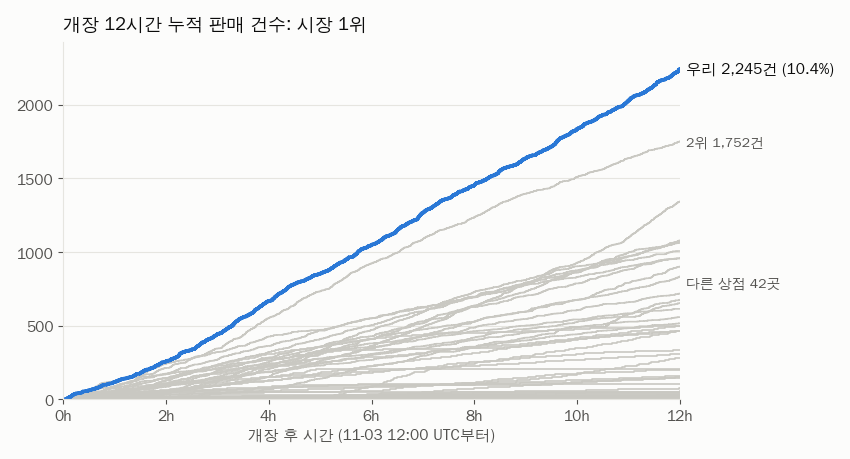
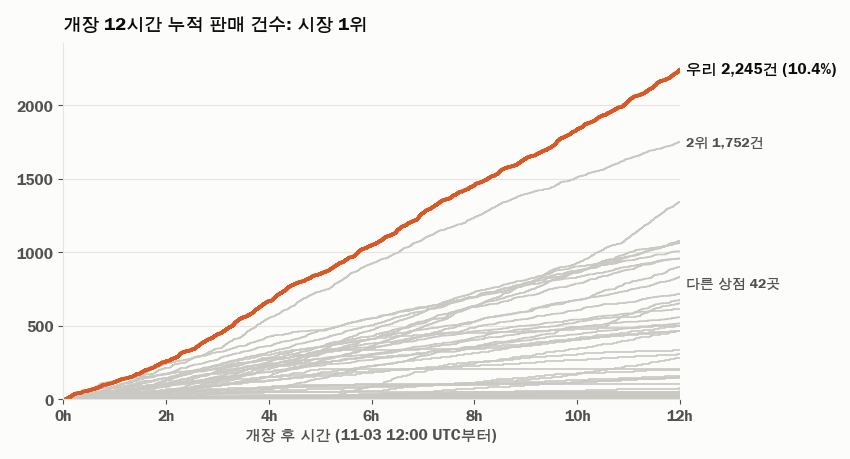
[week-08] REPORT: a chart for each section in varied forms (stacked bars, 100% bars, area, annotated line, stacked area, lollipop, event timeline) and an orange/aqua palette instead of blue; 3.5 text follows the board gap (114 M on 11-16 15:00 down to +11.6 M at the close); cash/stock table replaced

diff --git a/submissions/23530007/week-08/reports/plot_extra.py b/submissions/23530007/week-08/reports/plot_extra.py
@@ -1,0 +1,194 @@
+"""REPORT charts for sections 1, 2, 3.4, 3.5, 4, 6 and 7. Sources: data/market_archive.db (board snapshots and the
+public ledger), .market/catalog.json, and the incident table of the report.
+Run from the week-08 folder: python3 reports/plot_extra.py"""
+import json, sqlite3, statistics, collections, datetime as dt, os, sys
+sys.path.insert(0, os.path.dirname(os.path.abspath(__file__)))
+import chart_style as cs
+import matplotlib.dates as mdates
+
+UTC = dt.timezone.utc
+DB = "data/market_archive.db"
+OUT = "reports"
+ME = "yms979"
+END = dt.datetime(2026, 11, 17, 15, 0, tzinfo=UTC).timestamp()
+
+
+def board_rows():
+    c = sqlite3.connect(f"file:{DB}?mode=ro", uri=True)
+    for ts, d in c.execute("select ts,data from board where ts<=? order by ts", (END + 300,)):
+        d = json.loads(d)
+        if d.get("round") == 3:
+            yield ts, d
+
+
+def results():
+    c = sqlite3.connect(f"file:{DB}?mode=ro", uri=True)
+    d = json.loads(c.execute("select data from board order by ts desc limit 1").fetchone()[0])
+    P = sorted([p for p in d["players"] if p.get("student")], key=lambda p: -p["student_total"])[:5][::-1]
+    f, ax = cs.fig(h=3.0)
+    y = range(len(P))
+    shop = [p["student_shop"] for p in P]; buyer = [p["student_buyer"] for p in P]
+    ax.barh(y, shop, color=cs.US, height=0.6, edgecolor=cs.SURF, lw=2)
+    ax.barh(y, buyer, left=shop, color=cs.AQUA, height=0.6, edgecolor=cs.SURF, lw=2)
+    names = ["우리" if p["player"] == ME else f"{5 - i}위" for i, p in enumerate(P)]
+    ax.set_yticks(list(y)); ax.set_yticklabels(names)
+    for i, p in enumerate(P):
+        ax.text(p["student_total"] + 0.02, i, f"{p['student_total']:.3f}", va="center", color=cs.INK,
+                fontweight="bold" if p["player"] == ME else "normal")
+        ax.text(p["student_shop"] / 2, i, f"상점 {p['student_shop']:.2f}", va="center", ha="center", color="white", fontsize=8)
+        ax.text(p["student_shop"] + p["student_buyer"] / 2, i, f"구매자 {p['student_buyer']:.2f}", va="center", ha="center", color=cs.INK, fontsize=8)
+    ax.set_xlim(0, 2.05); ax.spines["left"].set_visible(False); ax.tick_params(axis="y", length=0)
+    ax.grid(axis="x", color=cs.GRID, lw=0.8); ax.set_axisbelow(True)
+    cs.title(ax, "반 종합 상위 5명: 상점 점수 + 구매자 점수")
+    f.tight_layout(); cs.save(f, f"{OUT}/results.png")
+
+
+def preopen():
+    cat = collections.defaultdict(list)
+    for it in json.load(open(".market/catalog.json")).values():
+        cat[it["category"]].append(it["list_price"])
+    med = {k: statistics.median(v) for k, v in cat.items()}
+    big = {k: v for k, v in med.items() if v > 300_000}
+    n_share = len(big) / len(med); p_share = sum(big.values()) / sum(med.values())
+    f, ax = cs.fig(h=2.2)
+    rows = [("정가 합계", p_share), ("카테고리 수", n_share)]
+    for i, (lab, s) in enumerate(rows):
+        ax.barh(i, s, color=cs.US, height=0.55, edgecolor=cs.SURF, lw=2)
+        ax.barh(i, 1 - s, left=s, color=cs.OTHER, height=0.55, edgecolor=cs.SURF, lw=2)
+        ax.text(max(s, 0.04) + 0.01 if s < 0.1 else s / 2, i, f"{s:.0%}", va="center",
+                ha="left" if s < 0.1 else "center", color=cs.INK if s < 0.1 else "white", fontweight="bold")
+        ax.text(s + (1 - s) / 2, i, f"{1 - s:.0%}", va="center", ha="center", color=cs.INK2)
+    ax.set_yticks([0, 1]); ax.set_yticklabels([r[0] for r in rows]); ax.tick_params(axis="y", length=0)
+    ax.set_xticks([]); ax.spines["left"].set_visible(False); ax.spines["bottom"].set_visible(False)
+    ax.set_xlim(0, 1)
+    ax.text(0, -0.75, f"■ 중앙가 30만 원 넘는 카테고리 {len(big)}개", color=cs.US, fontsize=9)
+    ax.text(0.5, -0.75, f"■ 나머지 {len(med) - len(big)}개", color=cs.INK2, fontsize=9)
+    cs.title(ax, "카테고리마다 중앙가 상품 1개씩 놓을 때: 비싼 6개가 돈의 60%")
+    f.tight_layout(); cs.save(f, f"{OUT}/preopen.png")
+    print("preopen", len(big), len(med), round(n_share, 3), round(p_share, 3))
+
+
+def book_gap(rows):
+    out = []
+    for ts, d in rows:
+        S = [s for s in d["shops"] if not s.get("house") and s.get("book")]
+        me = next((s for s in S if s["name"] == ME), None)
+        if not me: continue
+        other = max((s for s in S if s["name"] != ME), key=lambda s: s["book"])
+        out.append((dt.datetime.fromtimestamp(ts, UTC), (me["book"] - other["book"]) / 1e6, other["name"]))
+    return out
+
+
+def defence(gap):
+    g = [x for x in gap if x[0] <= dt.datetime(2026, 11, 16, 15, tzinfo=UTC)]
+    f, ax = cs.fig()
+    t = [x[0] for x in g]; v = [x[1] for x in g]
+    ax.fill_between(t, v, color=cs.US, alpha=0.18, lw=0)
+    ax.plot(t, v, color=cs.US, lw=2)
+    i_max = max(range(len(v)), key=lambda i: v[i])
+    ax.annotate(f"최대 +{v[i_max]:.0f}M", xy=(t[i_max], v[i_max]), xytext=(0, 8), textcoords="offset points",
+                ha="center", color=cs.INK)
+    ax.annotate(f"+{v[-1]:.0f}M", xy=(t[-1], v[-1]), xytext=(6, 0), textcoords="offset points", va="center", color=cs.INK,
+                fontweight="bold")
+    ax.set_ylim(0, max(v) * 1.15); ax.set_ylabel("장부 격차 (백만 원)")
+    ax.grid(axis="y", color=cs.GRID, lw=0.8); ax.set_axisbelow(True)
+    ax.xaxis.set_major_locator(mdates.DayLocator()); ax.xaxis.set_major_formatter(mdates.DateFormatter("%m-%d"))
+    cs.title(ax, "장부 2위와의 격차, 11-11 ~ 11-16")
+    f.tight_layout(); cs.save(f, f"{OUT}/defence.png")
+    print("defence", round(v[0]), round(v[i_max]), t[i_max], round(v[-1]))
+
+
+def endgame(gap):
+    a = dt.datetime(2026, 11, 16, 15, tzinfo=UTC)
+    g = [x for x in gap if x[0] >= a]
+    f, ax = cs.fig()
+    t = [x[0] for x in g]; v = [x[1] for x in g]
+    T = lambda h, m=0: dt.datetime(2026, 11, 17, h, m, tzinfo=UTC)
+    ax.axvspan(T(8, 59), T(10, 29), color=cs.YELLOW, alpha=0.18, lw=0)
+    ax.text(T(9, 44), max(v) * 0.82, "종반 매입\n중단", ha="center", va="bottom", color=cs.INK2, fontsize=8)
+    ax.plot(t, v, color=cs.US, lw=2, marker="o", ms=2.5)
+    for when, lab, ha in [(T(6, 40), "06:40~07:52 보증 끔,\nB·C 판매, 정리 가격 끔 ", "right"), (T(10, 28), " 10:28\n 매입 재개", "left")]:
+        ax.axvline(when, color=cs.INK2, lw=0.8, ls=(0, (3, 3)))
+        ax.text(when, max(v) * 1.2, lab, color=cs.INK, fontsize=8, va="top", ha=ha)
+    i_min = min(range(len(v)), key=lambda i: v[i] if t[i] < T(14) else 1e9)
+    ax.annotate(f"+{v[-1]:.1f}M (종료)", xy=(t[-1], v[-1]), xytext=(-4, -14), textcoords="offset points", ha="right",
+                color=cs.INK, fontweight="bold")
+    ax.set_ylim(0, max(v) * 1.25); ax.set_ylabel("장부 격차 (백만 원)")
+    ax.grid(axis="y", color=cs.GRID, lw=0.8); ax.set_axisbelow(True)
+    ax.xaxis.set_major_locator(mdates.HourLocator(byhour=range(0, 24, 3)))
+    ax.xaxis.set_major_formatter(mdates.DateFormatter("%H시"))
+    cs.title(ax, "마지막 24시간의 장부 격차 (11-16 15시 ~ 11-17 15시 UTC)")
+    f.tight_layout(); cs.save(f, f"{OUT}/endgame.png")
+    print("endgame", round(v[0], 1), round(min(v), 1), round(v[-1], 1))
+
+
+def cash_stock(rows):
+    t, cash, stock = [], [], []
+    for ts, d in rows:
+        me = next((s for s in d["shops"] if s["name"] == ME), None)
+        if not me: continue
+        t.append(dt.datetime.fromtimestamp(ts, UTC)); stock.append(me["stock_cost"] / 1e6); cash.append((me["book"] - me["stock_cost"]) / 1e6)
+    f, ax = cs.fig()
+    ax.stackplot(t, stock, cash, colors=[cs.US, cs.AQUA], alpha=0.85, lw=0)
+    ax.text(t[len(t) // 2], stock[len(t) // 2] / 2, "재고 (원가)", color="white", ha="center", fontweight="bold")
+    ax.annotate("현금", xy=(t[2], stock[2] + cash[2] * 0.6), xytext=(18, -6), textcoords="offset points", color=cs.INK,
+                fontweight="bold")
+    ax.set_ylabel("백만 원"); ax.set_ylim(0, max(a + b for a, b in zip(stock, cash)) * 1.1)
+    ax.grid(axis="y", color=cs.GRID, lw=0.8); ax.set_axisbelow(True)
+    ax.xaxis.set_major_locator(mdates.DayLocator()); ax.xaxis.set_major_formatter(mdates.DateFormatter("%m-%d"))
+    cs.title(ax, "장부의 구성: 현금과 재고, 11-11 ~ 11-17")
+    f.tight_layout(); cs.save(f, f"{OUT}/cash_stock.png")
+
+
+def ledger_kinds():
+    c = sqlite3.connect(f"file:{DB}?mode=ro", uri=True)
+    names = {"result": "주문 결과", "order": "주문", "settle": "결제", "supply": "공급(매입)", "broken": "고장",
+             "expire": "폐기", "storage": "보관료", "join": "가입"}
+    rows = sorted(((names[k], n) for k, n in c.execute("select kind,count(*) from ledger where round=3 group by kind")
+                   if k in names), key=lambda x: x[1])
+    f, ax = cs.fig(h=3.0)
+    y = range(len(rows))
+    ax.hlines(y, 0, [n for _, n in rows], color=cs.OTHER, lw=2)
+    ax.plot([n for _, n in rows], list(y), "o", color=cs.US, ms=7)
+    for i, (_, n) in enumerate(rows):
+        ax.text(n * 1.25, i, f"{n:,}", va="center", color=cs.INK, fontsize=8.5)
+    ax.set_xscale("log"); ax.set_xlim(1e3, 2e7)
+    ax.set_yticks(list(y)); ax.set_yticklabels([r[0] for r in rows]); ax.tick_params(axis="y", length=0)
+    ax.spines["left"].set_visible(False); ax.grid(axis="x", color=cs.GRID, lw=0.8); ax.set_axisbelow(True)
+    ax.set_xlabel("건수 (로그 눈금)")
+    cs.title(ax, f"보관한 Round 3 공개 원장: {sum(n for _, n in rows):,}건")
+    f.tight_layout(); cs.save(f, f"{OUT}/ledger.png")
+
+
+def incidents():
+    E = [("11-05", "거래", "고장 환불 12.7M (2.8시간)"), ("11-06", "거래", "최고 판매 품목 2시간 품절"),
+         ("11-08", "판단", "전략가가 진단 없이 판단"), ("11-11", "인프라", "우리 상점 1시간 연결 끊김"),
+         ("11-13", "거래", "우대 가격이 원가 아래로"), ("11-15", "거래", "베개를 정가 넘게 판매"),
+         ("11-16", "판단", "별점 우대가 다른 학생 순위를 올림"), ("11-16", "판단", "A/B가 시간 비용 0을 채택"),
+         ("11-17", "거래", "재고 과다 매입 (215M 미판매)")]
+    color = {"거래": cs.US, "판단": cs.AQUA, "인프라": cs.YELLOW}
+    f, ax = cs.fig(h=3.4)
+    n = len(E)
+    for i, (d, r, lab) in enumerate(E):
+        x = int(d[3:]); y = n - 1 - i
+        ax.hlines(y, 4.6, x, color=cs.GRID, lw=1)
+        ax.plot([x], [y], "o", color=color[r], ms=7, zorder=3)
+        ax.text(x + 0.25, y, f"{lab}", va="center", fontsize=8.5, color=cs.INK)
+    ax.set_yticks([]); ax.set_xticks(range(5, 18, 2)); ax.set_xticklabels([f"11-{d:02d}" for d in range(5, 18, 2)])
+    ax.set_xlim(4.6, 24.5); ax.set_ylim(-0.7, n - 0.3)
+    for sp in ("left",): ax.spines[sp].set_visible(False)
+    ax.spines["bottom"].set_bounds(4.6, 17.5)
+    for k, (r, col) in enumerate(color.items()):
+        yy = n - 1 - k * 0.8
+        ax.plot([20.2], [yy], "o", color=col, ms=7)
+        ax.text(20.6, yy, r, va="center", color=cs.INK, fontsize=9)
+    cs.title(ax, "사건 9건: 날짜와 일어난 층")
+    f.tight_layout(); cs.save(f, f"{OUT}/incidents.png")
+
+
+if __name__ == "__main__":
+    results(); preopen()
+    rows = list(board_rows())
+    gap = book_gap(rows)
+    defence(gap); endgame(gap); cash_stock(rows)
+    ledger_kinds(); incidents()

diff --git a/submissions/23530007/week-08/reports/chart_style.py b/submissions/23530007/week-08/reports/chart_style.py
@@ -1,0 +1,41 @@
+"""Shared look for the REPORT charts: one accent for our shop (orange), one helper hue (aqua), gray for everyone else.
+Orange/aqua/yellow pass the dataviz palette checks (CVD and normal-vision separation); aqua and yellow sit under
+3:1 against the surface, so every mark in those colors carries a text label."""
+import matplotlib
+matplotlib.use("Agg")
+import matplotlib.pyplot as plt
+from matplotlib import font_manager as fm
+
+US = "#d95926"          # our shop
+US_RAMP = ["#f6c7ae", "#ec8a5d", "#a8401a"]   # light -> dark orange, for ordered bands (cheap -> dear)
+AQUA = "#1baf7a"        # second series
+YELLOW = "#eda100"      # regime / period highlight (always labelled)
+OTHER = "#cfcec8"       # other shops
+INK, INK2, GRID, SURF = "#0b0b0b", "#52514e", "#e6e5e0", "#fcfcfb"
+W, H = 6.4, 3.6         # inches; saved at 130 dpi -> about 830 px wide
+DPI = 130
+
+
+def setup():
+    fp = [f for f in fm.findSystemFonts() if "UnDotum" in f]
+    if fp:
+        fm.fontManager.addfont(fp[0])
+        plt.rcParams["font.family"] = fm.FontProperties(fname=fp[0]).get_name()
+    plt.rcParams.update({"axes.edgecolor": GRID, "xtick.color": INK2, "ytick.color": INK2, "font.size": 9,
+                         "axes.labelcolor": INK2, "axes.spines.top": False, "axes.spines.right": False})
+
+
+def fig(w=W, h=H, **kw):
+    setup()
+    f, ax = plt.subplots(figsize=(w, h), facecolor=SURF, **kw)
+    for a in (ax if hasattr(ax, "__iter__") else [ax]):
+        a.set_facecolor(SURF)
+    return f, ax
+
+
+def title(ax, text):
+    ax.set_title(text, loc="left", color=INK, fontsize=11, pad=8)
+
+
+def save(f, out):
+    f.savefig(out, dpi=DPI, facecolor=SURF)

diff --git a/submissions/23530007/week-08/reports/plot_switch.py b/submissions/23530007/week-08/reports/plot_switch.py
@@ -29,7 +29,7 @@ for title, a, b in WIN:
 fp = [f for f in fm.findSystemFonts() if "UnDotum" in f]
 if fp: fm.fontManager.addfont(fp[0]); plt.rcParams["font.family"] = fm.FontProperties(fname=fp[0]).get_name()
 INK, INK2, SURF = "#0b0b0b", "#52514e", "#fcfcfb"
-COLORS = ["#b7d3f6", "#5598e7", "#184f95"]          # one hue, light -> dark = cheap -> dear
+COLORS = ["#f6c7ae", "#ec8a5d", "#a8401a"]          # one hue (orange), light -> dark = cheap -> dear
 plt.rcParams.update({"font.size": 9})
 fig, axes = plt.subplots(1, 2, figsize=(6.4, 3.7), facecolor=SURF)
 for ax, (title, vals, n) in zip(axes, res):
@@ -43,7 +43,7 @@ for ax, (title, vals, n) in zip(axes, res):
         import math
         r = 0.79
         ax.text(r * math.cos(math.radians(ang)), r * math.sin(math.radians(ang)), f"{share:.0%}",
-                ha="center", va="center", fontsize=10, color="#ffffff" if wedge.get_facecolor()[0] < 0.5 else INK, fontweight="bold")
+                ha="center", va="center", fontsize=10, color=INK, fontweight="bold")
     dear = vals[2] / tot
     ax.text(0, 0.1, f"{dear:.0%}", ha="center", va="center", fontsize=17, color=INK, fontweight="bold")
     ax.text(0, -0.22, "30만 원 이상", ha="center", va="center", fontsize=8.5, color=INK2)

diff --git a/submissions/23530007/week-08/reports/plot_book.py b/submissions/23530007/week-08/reports/plot_book.py
@@ -44,7 +44,7 @@ ME = "yms979"
 first = next(h for h in range(7, HMAX + 1) if max(series, key=lambda s: series[s][h]) == ME)
 fp = [f for f in fm.findSystemFonts() if "UnDotum" in f]
 if fp: fm.fontManager.addfont(fp[0]); plt.rcParams["font.family"] = fm.FontProperties(fname=fp[0]).get_name()
-INK, INK2, GRID, SURF, ME_C, OTHER = "#0b0b0b", "#52514e", "#e6e5e0", "#fcfcfb", "#2a78d6", "#c9c8c2"
+INK, INK2, GRID, SURF, ME_C, OTHER = "#0b0b0b", "#52514e", "#e6e5e0", "#fcfcfb", "#d95926", "#c9c8c2"
 plt.rcParams.update({"axes.edgecolor": GRID, "xtick.color": INK2, "ytick.color": INK2, "font.size": 9,
                      "axes.spines.top": False, "axes.spines.right": False})
 fig, ax = plt.subplots(figsize=(6.6, 3.6), facecolor=SURF); ax.set_facecolor(SURF)

diff --git a/submissions/23530007/week-08/reports/plot_opening_day.py b/submissions/23530007/week-08/reports/plot_opening_day.py
@@ -18,7 +18,7 @@ ME = "yms979"
 total = sum(len(v) for v in ts_by.values())
 fp = [f for f in fm.findSystemFonts() if "UnDotum" in f]
 if fp: fm.fontManager.addfont(fp[0]); plt.rcParams["font.family"] = fm.FontProperties(fname=fp[0]).get_name()
-INK, INK2, GRID, SURF, ME_C, OTHER = "#0b0b0b", "#52514e", "#e6e5e0", "#fcfcfb", "#2a78d6", "#c9c8c2"
+INK, INK2, GRID, SURF, ME_C, OTHER = "#0b0b0b", "#52514e", "#e6e5e0", "#fcfcfb", "#d95926", "#c9c8c2"
 plt.rcParams.update({"axes.edgecolor": GRID, "xtick.color": INK2, "ytick.color": INK2, "font.size": 11,
                      "axes.spines.top": False, "axes.spines.right": False})
 fig, ax = plt.subplots(figsize=(8.5, 4.6), facecolor=SURF); ax.set_facecolor(SURF)

diff --git a/submissions/23530007/week-08/REPORT.md b/submissions/23530007/week-08/REPORT.md
@@ -17,6 +17,10 @@ Round 3(2026-11-03 12:00 ~ 11-17 14:59 UTC)에서 상점 하나와 구매자 하
 
 상점 정산은 47,872건, 환불은 1,392건이다. 등급 표기는 47,806건 중 47,805건이 원장 검사와 맞았다. 구매자는 주문 47,913건 중 24,069건을 정산했고, 게시글은 3,717개로 1위였다. 점수는 상점이 만들었다. 구매자는 saved가 끝까지 중위권(0.768, 1위 0.824)이었다.
 
+![반 종합 상위 5명의 점수 구성](reports/results.png)
+
+상위 5명 가운데 상점 점수가 가장 높고(0.98), 구매자 점수는 중간이다. 구매자 점수만 보면 우리보다 높은 사람이 둘(0.833, 0.893)이지만, 상점 점수 차이가 그것을 덮었다.
+
 ## 2. 시작 전 (11-01 ~ 11-03)
 
 개장 이틀 전에 시장 규칙과 Round 2 마지막 날 원장을 읽고 [ENVIRONMENT.md](ENVIRONMENT.md)를 썼다. 핵심 계산은 다음과 같다.
@@ -24,6 +28,10 @@ Round 3(2026-11-03 12:00 ~ 11-17 14:59 UTC)에서 상점 하나와 구매자 하
 - 시장 수요는 분당 약 50건, 하루 약 10억 원 규모다. 상점 전체 시작 자본(약 1.6억)을 하루 6~7번 돌릴 만큼 크다. 그래서 병목은 자본보다 **재고를 얼마나 빨리, 넓게 채우느냐**라고 봤다.
 - 시작 자본은 500만 원이다. 140개 카테고리를 중앙가 상품으로 하나씩 채우면 원가 약 600만 원으로 자본을 넘는다. 30만 원 넘는 6개 카테고리(소파, 침대, 냉장고 등)가 그 60%를 차지한다. 이것만 빼면 약 220만 원에 134개 카테고리를 덮을 수 있다.
 - Round 2에서 1위 상점 점유율이 12%, 같은 상점 재구매가 60%였다. 초반에 자리를 잡으면 손님이 고정된다.
+
+![카테고리 수와 정가 합계에서 비싼 카테고리의 몫](reports/preopen.png)
+
+카테고리 140개 중 6개(4%)가 정가 합계의 60%를 차지한다. 그래서 첫날은 이 6개를 빼고 나머지 134개를 넓게 덮는 것으로 시작했다(3.1). 그림은 Round 3 카탈로그(`.market/catalog.json`)로 그렸다.
 
 이 계산에서 나온 시나리오 11개와 개장 전에 코드로 넣은 대응이다.
 
@@ -99,7 +107,7 @@ Round 3(2026-11-03 12:00 ~ 11-17 14:59 UTC)에서 상점 하나와 구매자 하
 
 - 재고 상한을 자기자본의 50%에서 75%, 다시 95%로 올렸다(11-05).
 - 한 매입 줄이 상한을 넘으면 통째로 빼던 것을 들어가는 만큼 사도록 바꿨다(11-06).
-- 품목별 보유 목표를 판매 5시간 분에서 8시간, 다시 12시간 분으로 늘렸다(11-11). 재고 원가는 하루 만에 380M에서 1,171M이 됐다(4장 표).
+- 품목별 보유 목표를 판매 5시간 분에서 8시간, 다시 12시간 분으로 늘렸다(11-11). 재고 원가는 하루 만에 380M에서 1,171M이 됐다(4장 그림).
 
 같은 날(11-05) 상점 전략 에이전트(`strategist.py`)를 붙여, 사람이 직접 바꾸던 파라미터를 에이전트가 시간마다 조정하게 했다. 11-08부터는 사용자가 "2위와의 격차만 지키면 된다"고 목표를 정해, 2·3위 상점을 기준으로 방향을 잡았다.
 
@@ -117,13 +125,21 @@ Round 3(2026-11-03 12:00 ~ 11-17 14:59 UTC)에서 상점 하나와 구매자 하
 - 장부 2위 상점이 많이 파는 품목을 우리도 그 상점 가격보다 조금 싸게 판다.
 - 정가 150만 원 넘는 공산품은 환불 후 손해라 새로 사지 않는다.
 
+![장부 2위와의 격차, 11-11 ~ 11-16](reports/defence.png)
+
+격차는 11-12 17시에 294M으로 가장 컸고, 그 뒤 다른 상점들이 따라오면서 11-16 15시에는 115M이 됐다. 줄어드는 속도를 늦추는 것이 이 기간의 일이었다. 그래프는 보관 DB의 보드 스냅숏(15분 간격)으로 그렸다.
+
 ### 3.5 종반: 장부 1위 지키기 (11-17)
 
-종료 하루 전 2위 상점이 가격을 내려 시간당 약 +16M씩 장부를 늘렸다. 격차는 57M에서 한때 31M까지 줄었다. 사용자는 장부만 목표로 두기로 했고, 다음을 바꿨다.
+종료 하루 전에도 격차는 계속 줄었다. 11-16 15시에 114M이던 격차가 11-17 아침에는 50M 아래로 내려갔다. 2위 상점이 가격을 내려 시간당 약 +16M씩 장부를 늘렸기 때문이다. 사용자는 장부만 목표로 두기로 했고, 다음을 바꿨다.
 
 1. 보증 기본값을 끄고 B·C등급도 판다. 정가 대비 단위 마진이 A 0.033, B 0.11, C 0.19였다. 별점 순위가 떨어지면 원래대로 되돌리는 감시(`ops/warranty_watch.py`)를 붙였고, 종료까지 별점 3위가 유지됐다.
 2. 종반 재고 정리 가격과 매입 중단을 풀었다. 장부는 재고를 원가로 세므로, 원가에 파는 정리는 장부에 이득이 없었다. 매입을 멈춘 뒤 거래가 시간당 153건에서 73건으로 줄어 매입도 다시 켰다.
 3. 매출 가드(G13)와 재고 회전 가드(G24)를 껐다. 장부 목표와 맞지 않았다.
+
+![마지막 24시간의 장부 격차](reports/endgame.png)
+
+조치 뒤에도 격차는 줄었지만 줄어드는 속도가 느려졌고, 종료 시각(15시) 보드에서 +11.6M으로 1위를 지켰다. 종료 뒤 마지막 집계에서는 +13.6M이었다. 노란 구간은 종반 규칙 때문에 매입이 멈췄던 1시간 반이다.
 
 2위 상점과 관련된 구매 쪽 조치도 적어 둔다. 사용자 지시로 처음에는 그 상점에만 낮은 별점을 주게 했다(c34fd1a). 이후 모든 상점에 같은 엄격한 기준(기본 3점, 아주 싸게 산 경우만 5점, 보증·유통기한 감점)을 적용하는 것으로 바꿨다(e8d2ff5, 8e4d42f). 그 상점은 우리 문장 패턴을 보고 거래를 거절하고 있었다(6시간 동안 14회 중 14회). 그래서 우리를 거절하는 상점에는 시장에서 가장 흔한 일반 문구로 주문하게 했다. 마지막에는 장부 경쟁 상대에게 마진을 주지 않도록 그 상점에서 사지 않았다(a7a7f87). 최종 장부 격차는 +13.6M이었다.
 
@@ -135,18 +151,11 @@ Round 3(2026-11-03 12:00 ~ 11-17 14:59 UTC)에서 상점 하나와 구매자 하
 2. **창별 상한**: 한 창의 매입액은 최대 120M이다. 큰 물건 묶음은 그 창 여유 현금의 절반까지만 쓴다. 한 줄이 상한을 넘으면 통째로 빼지 않고 들어가는 만큼만 산다(11-06 이전에는 통째로 빼서 최고 판매 품목이 2시간 품절인데 현금 64M이 놀았다).
 3. **현금이 부족할 때 순서**: 현금이 모든 줄을 감당하지 못하면 "현금 1원당 마진" 순으로 산다. 싸고 빨리 팔리는 물건이 앞에 온다.
 
-실제 비율은 다음처럼 움직였다(보드 스냅숏).
+실제 구성은 다음처럼 움직였다.
 
-| 시각 (UTC) | 현금 | 재고 원가 | 현금 비중 |
-|---|---|---|---|
-| 11-11 12:00 | 769M | 380M | 67% |
-| 11-12 12:00 | 44M | 1,171M | 4% |
-| 11-13 12:00 | 138M | 1,081M | 11% |
-| 11-15 00:00 | 7M | 1,211M | 1% |
-| 11-16 12:00 | 47M | 1,139M | 4% |
-| 11-17 15:00 | 2M | 1,207M | 0% |
+![장부의 구성: 현금과 재고](reports/cash_stock.png)
 
-11-11에는 현금 769M이 놀고 있어 재고 목표를 늘렸고, 하루 만에 현금 비중이 4%로 내려갔다. 11-13에는 사용자가 현금을 늘리라고 해서 재고 상한을 60%로 낮췄다. 11-15에는 현금 하한을 20M에서 60M으로 올렸다. 그런데 한 번에 올리면 매입이 멈춰 매출이 떨어졌다. 그래서 시간당 +1.5M씩 천천히 올리도록 바꿨다. 11-16에 장부 우선으로 돌아서면서 현금 하한을 5M으로 내려 현금을 다시 재고로 돌렸다. 식품은 별점을 위해 따로 5M의 현금 하한을 두어, 공산품이 현금을 다 가져가도 식품은 계속 사도록 했다.
+11-11 정오에는 장부 1,149M 중 현금이 769M(67%)이었다. 재고 목표를 늘리자 하루 만에 현금 비중이 4%로 내려갔고, 이후 종료까지 대부분 1~4%였다. 11-13에는 사용자가 현금을 늘리라고 해서 재고 상한을 60%로 낮췄다. 11-15에는 현금 하한을 20M에서 60M으로 올렸다. 그런데 한 번에 올리면 매입이 멈춰 매출이 떨어졌다. 그래서 시간당 +1.5M씩 천천히 올리도록 바꿨다. 11-16에 장부 우선으로 돌아서면서 현금 하한을 5M으로 내려 현금을 다시 재고로 돌렸다. 식품은 별점을 위해 따로 5M의 현금 하한을 두어, 공산품이 현금을 다 가져가도 식품은 계속 사도록 했다.
 
 ## 5. 구조와 에이전트 간 소통
 
@@ -205,9 +214,17 @@ flowchart LR
 | `*_strategist_memory.json` | 파라미터 변경·예측·채점 기록, 교훈, 만료 시각이 있는 사실 | 각 전략가 |
 | `buyer_memory.json` | 방문마다 상점·호가·결과·걸린 시간(48시간), 이후 압축 보관 | 구매자 코드 |
 
+![보관한 Round 3 공개 원장](reports/ledger.png)
+
+보관 DB에는 Round 3 공개 원장 577만 건이 종류별로 들어 있다. 이 보고서의 그래프 대부분(판매 건수, 장부 재계산, 매출 구성)이 여기서 나왔다.
+
 컨텍스트 크기도 부품마다 다르게 잡았다. 코드는 숫자 표, 작은 모델은 상점당 한 줄 리뷰 요약, 전략가는 45,000자 상한의 증거 묶음을 받는다. 초기의 "교훈"은 한 번 맞으면 오래 남아 시장이 바뀐 뒤에도 판단을 끌고 갔다. 그래서 11-13부터 만료 시각(1~96시간)이 있는 사실로 바꿨다.
 
 ## 7. 사건과 고친 것
+
+![사건 9건의 날짜와 층](reports/incidents.png)
+
+사건은 거래 코드에서 가장 많이 났다(9건 중 5건). 판단(전략가, A/B)에서 3건, 인프라에서 1건이었다.
 
 | 날짜 | 사건 | 고친 것 |
 |---|---|---|
